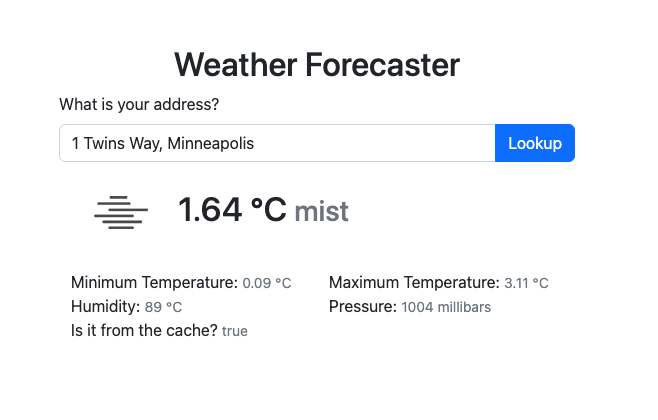
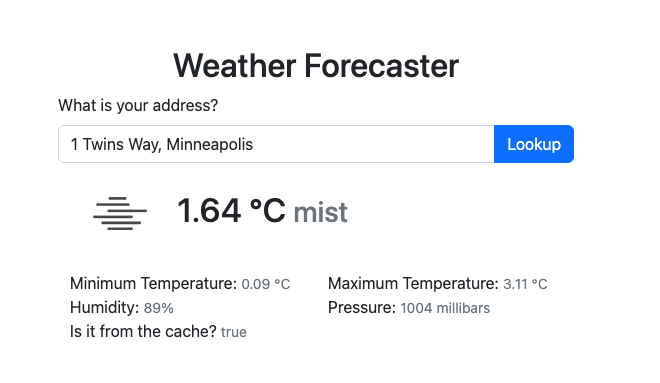
fix some style issues

diff --git a/README.md b/README.md
@@ -395,24 +395,46 @@ Complete `app/views/forecasts/show.html.erb`:
 ```erb
 <%= render "shared/flash" %>
 
-<h1>Forecast</h1>
-
 <%= form_with(method: 'get', local: true) do %>
-    <%= label :address, "What is your address?" %><br>
-    <%= text_field_tag(:address, @address || @address_default, size: 70) %><br>
-    <%= submit_tag("Lookup") %>
+	<%= label :address, "What is your address?", class: "form-label" %>
+	<div class="input-group">
+		<%= text_field_tag(:address, @address || @address_default, size: 70, placeholder: "Type address", class: "form-control") %>
+		<%= submit_tag("Lookup", class: "btn btn-primary") %>
+	</div>
 <% end %>
-
 <% if defined?(@weather) %>
-    <ul>
-        <li>Temperature: <%= @weather.temperature %> ℃</li>
-        <li>Temperature Minimum: <%= @weather.temperature_min %> ℃</li>
-        <li>Temperature Maximum: <%= @weather.temperature_max %> ℃</li>
-        <li>Humidity: <%= @weather.humidity %>%</li>
-        <li>Pressure: <%= @weather.pressure %> millibars</li>
-        <li>Description: <%= @weather.description %></li>
-        <li>Is this result from the cache? <%= @weather_cache_exist %>
-    </ul>
+	<div class="container">
+		<div class="row">
+			<div class="col">
+				<h1>
+					<img src="http://openweathermap.org/img/wn/<%= @weather.icon %>@2x.png">
+					<%= @weather.temperature %> ℃
+					<small class="text-muted"><%= @weather.description %></small>
+				</h1>
+			</div>
+		</div>
+		<div class="row">
+			<div class="col">
+				Minimum Temperature: <small class="text-muted"><%= @weather.temperature_min %> ℃</small>
+			</div>
+			<div class="col">
+				Maximum Temperature: <small class="text-muted"><%= @weather.temperature_max %> ℃</small>
+			</div>
+		</div>
+		<div class="row">
+			<div class="col">
+				Humidity: <small class="text-muted"><%= @weather.humidity %>%</small>
+			</div>
+			<div class="col">
+				Pressure: <small class="text-muted"><%= @weather.pressure %> millibars</small>
+			</div>
+		</div>
+		<div class="row">
+			<div class="col">
+				Is it from the cache? <small class="text-muted"><%= @weather_cache_exist %></small>
+			</div>
+		</div>
+	</div>
 <% end %>
 ```
 
